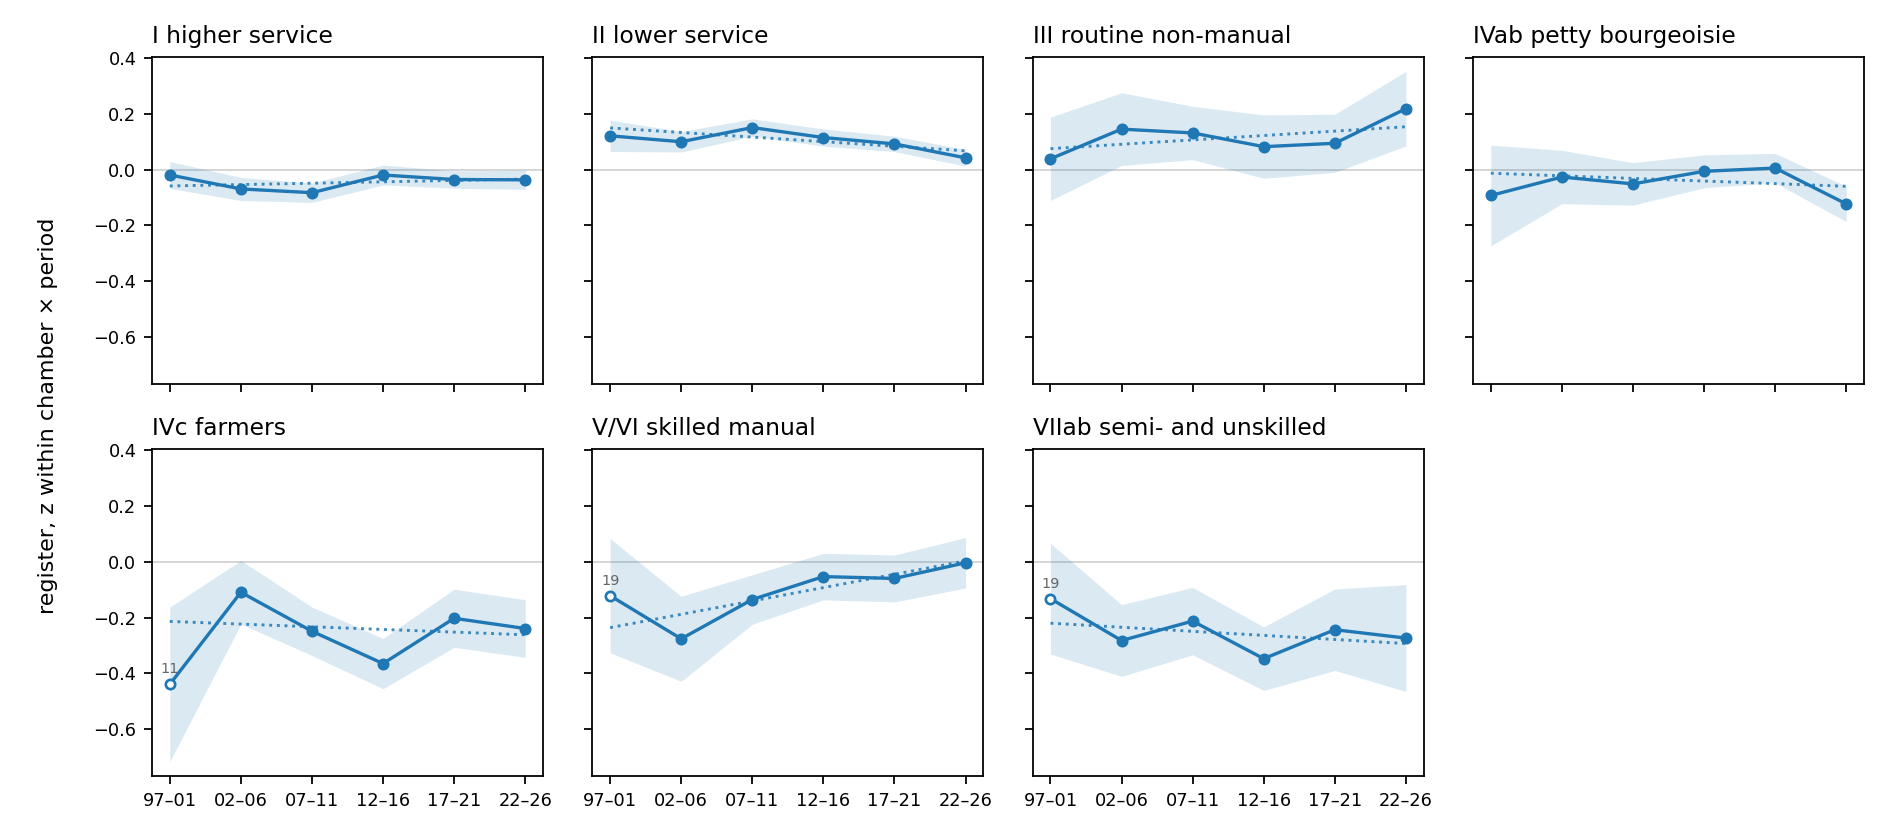
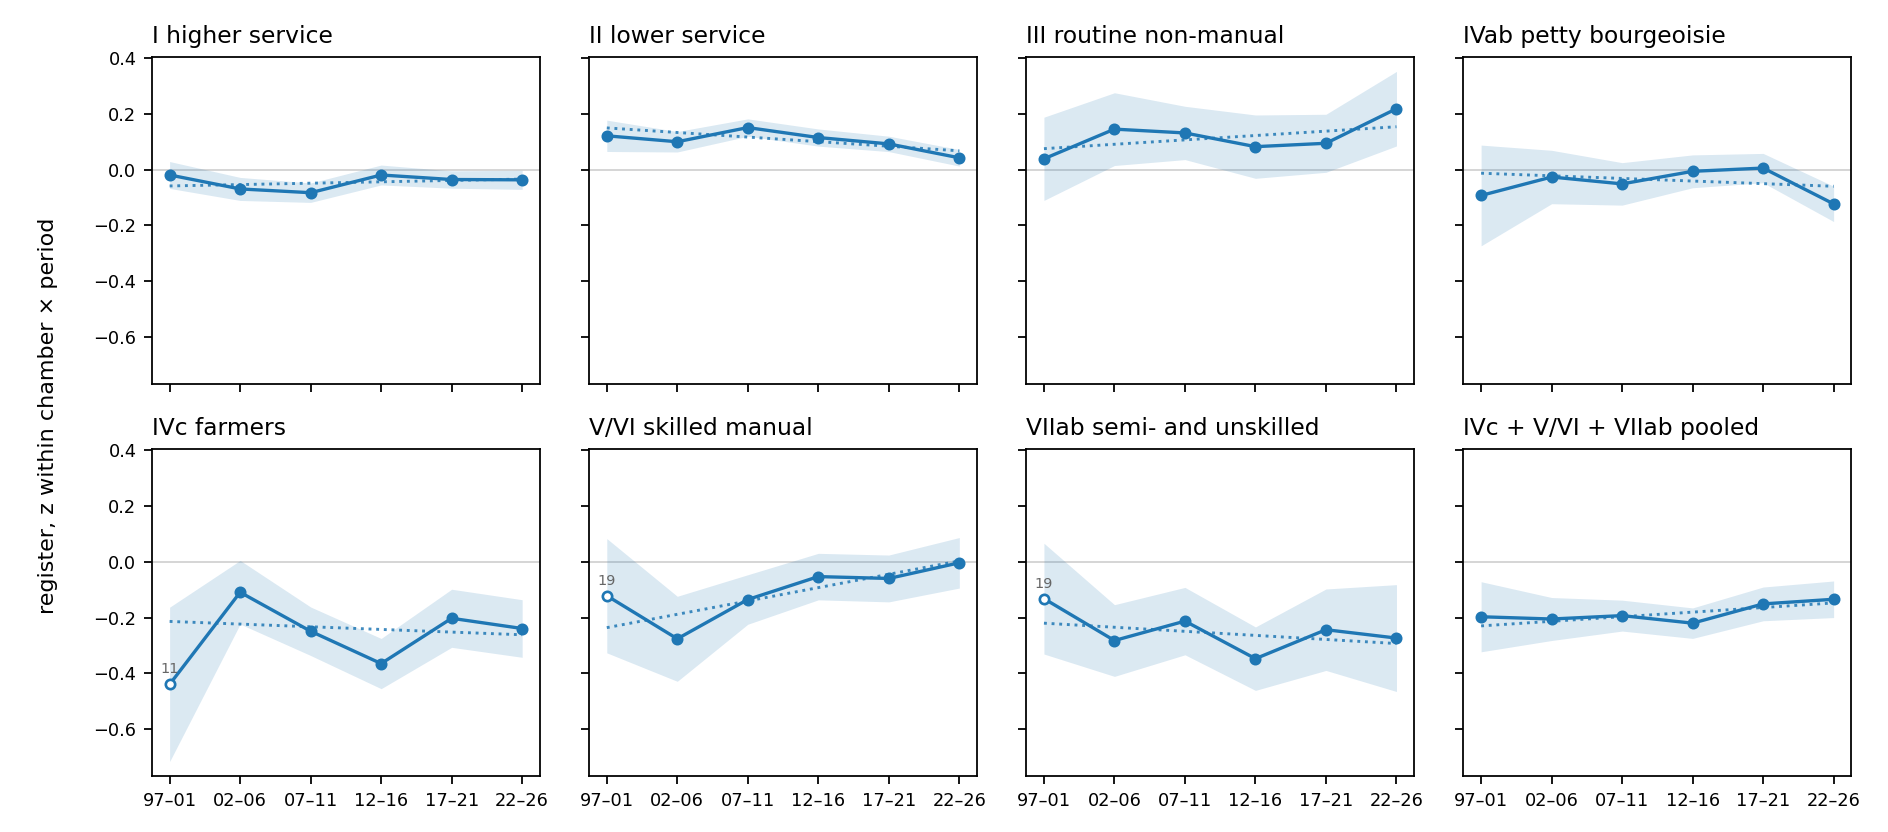
S10: pooled-tail aggregate restored as the era figure's eighth panel
IVc + V/VI + VIIab pooled (from class_by_era_grouped.csv), same styling —
se band, member-weighted dotted trend. Shows the floor claim directly:
below the pack in every bin, n 49-209 per cell. Caption updated.

Claude-Session: https://claude.ai/code/session_01X3juPXmVjxsEPQV1bymwDR

diff --git a/analysis/s10/plot_class_by_era_panels.py b/analysis/s10/plot_class_by_era_panels.py
@@ -28,13 +28,20 @@ LABEL = {"I": "I higher service", "II": "II lower service",
 BLUE = "#1f77b4"
 
 rows = list(csv.DictReader(open(os.path.join(HERE, "class_by_era_all.csv"))))
+grows = [r for r in csv.DictReader(open(os.path.join(HERE, "class_by_era_grouped.csv")))
+         if r["group"] == "manual+farm"]
 eras = sorted({r["half_decade"] for r in rows})
 ex = {e: i for i, e in enumerate(eras)}
 
 fig, axes = plt.subplots(2, 4, figsize=(11.8, 5.2), sharey=True, sharex=True)
-for ax, cls in zip(axes.flat, ORDER):
-    pts = sorted((ex[r["half_decade"]], float(r["mean_z"]), float(r["se"]),
-                  int(r["n_members"])) for r in rows if r["egp"] == cls)
+panels = [(cls, LABEL[cls],
+           sorted((ex[r["half_decade"]], float(r["mean_z"]), float(r["se"]),
+                   int(r["n_members"])) for r in rows if r["egp"] == cls))
+          for cls in ORDER]
+panels.append(("pool", "IVc + V/VI + VIIab pooled",
+               sorted((ex[r["half_decade"]], float(r["mean_z"]), float(r["se"]),
+                       int(r["n_members"])) for r in grows)))
+for ax, (cls, label, pts) in zip(axes.flat, panels):
     xs = [p[0] for p in pts]
     ys = [p[1] for p in pts]
     ses = [p[2] for p in pts]
@@ -61,12 +68,11 @@ for ax, cls in zip(axes.flat, ORDER):
             ax.annotate(f"{n}", (x, y), textcoords="offset points",
                         xytext=(0, 5), fontsize=6.5, color="0.4",
                         ha="center")
-    ax.set_title(LABEL[cls], fontsize=10.5, loc="left")
+    ax.set_title(label, fontsize=10.5, loc="left")
     ax.set_xticks(range(len(eras)))
     ax.set_xticklabels([e[2:4] + "–" + e[7:] for e in eras],
                        fontsize=7.5)
     ax.tick_params(labelsize=8)
-axes.flat[-1].axis("off")
 fig.supylabel("register, z within chamber × period", fontsize=10)
 # no suptitle: the paper caption carries the description
 fig.tight_layout(rect=(0.012, 0, 1, 1))

diff --git a/analysis/s10/latex/body.tex b/analysis/s10/latex/body.tex
@@ -1031,8 +1031,9 @@ trend is \(-0.022\) per bin, t \(-1.67\)). The peak itself never moves.
 \begin{figure}[htbp]
 \centering
 \includegraphics[width=0.85\linewidth]{class_by_era_panels.png}
-\caption{The class profile of the register, 1997--2026, one panel per class, in six
-equal five-year bins whose last is the machine era (2022--26): member-level
+\caption{The class profile of the register, 1997--2026, one panel per class plus
+the pooled tail, in six equal five-year bins whose last is the machine era
+(2022--26): member-level
 means over 22 chambers, z-scored within chamber \(\times\) period, so the overall
 era rise is removed and each panel reads as that class\textquotesingle s position against
 its chamber-and-period average --- a rising panel is a class gaining relative
@@ -1042,7 +1043,8 @@ annotated). Error bars are \(\pm\)1 se; the dotted line is each panel\textquotes
 member-weighted linear trend. Class II holds above class I in every
 bin; farmers and VIIab hold the floor; III --- thin at 26--85 members --- stays
 elevated and tilts higher; V/VI climbs slowly toward zero, the one tail
-series that moves. (\texttt{python\ build\_\allowbreak{}class\_\allowbreak{}by\_\allowbreak{}era.\allowbreak{}py} --- the committed generator
+series that moves; and the pooled tail (last panel) sits below the pack in
+every bin. (\texttt{python\ build\_\allowbreak{}class\_\allowbreak{}by\_\allowbreak{}era.\allowbreak{}py} --- the committed generator
   (review CC10): member-year panel rates z-scored against all member-years
   of their chamber \(\times\) half-decade, word-weighted to one value per member
   per bin, cells over the 5,391 class-coded members with any 1997+ speech;

diff --git a/analysis/s10/S10-WRITEUP-DRAFT.md b/analysis/s10/S10-WRITEUP-DRAFT.md
@@ -1110,8 +1110,9 @@ trend is −0.022 per bin, t −1.67). The peak itself never moves.
 
 ![Register by EGP class, one panel per class](class_by_era_panels.png)
 
-*The class profile of the register, 1997–2026, one panel per class, in six
-equal five-year bins whose last is the machine era (2022–26): member-level
+*The class profile of the register, 1997–2026, one panel per class plus
+the pooled tail, in six equal five-year bins whose last is the machine era
+(2022–26): member-level
 means over 22 chambers, z-scored within chamber × period, so the overall
 era rise is removed and each panel reads as that class's position against
 its chamber-and-period average — a rising panel is a class gaining relative
@@ -1121,7 +1122,8 @@ annotated). Error bars are ±1 se; the dotted line is each panel's
 member-weighted linear trend. Class II holds above class I in every
 bin; farmers and VIIab hold the floor; III — thin at 26–85 members — stays
 elevated and tilts higher; V/VI climbs slowly toward zero, the one tail
-series that moves.* †[^r46cls]
+series that moves; and the pooled tail (last panel) sits below the pack in
+every bin.* †[^r46cls]
 
 The era test cannot say who originated the form. Class I is never at the top,
 not even in 1997–2001 — but class coding only becomes substantial around 2005,
